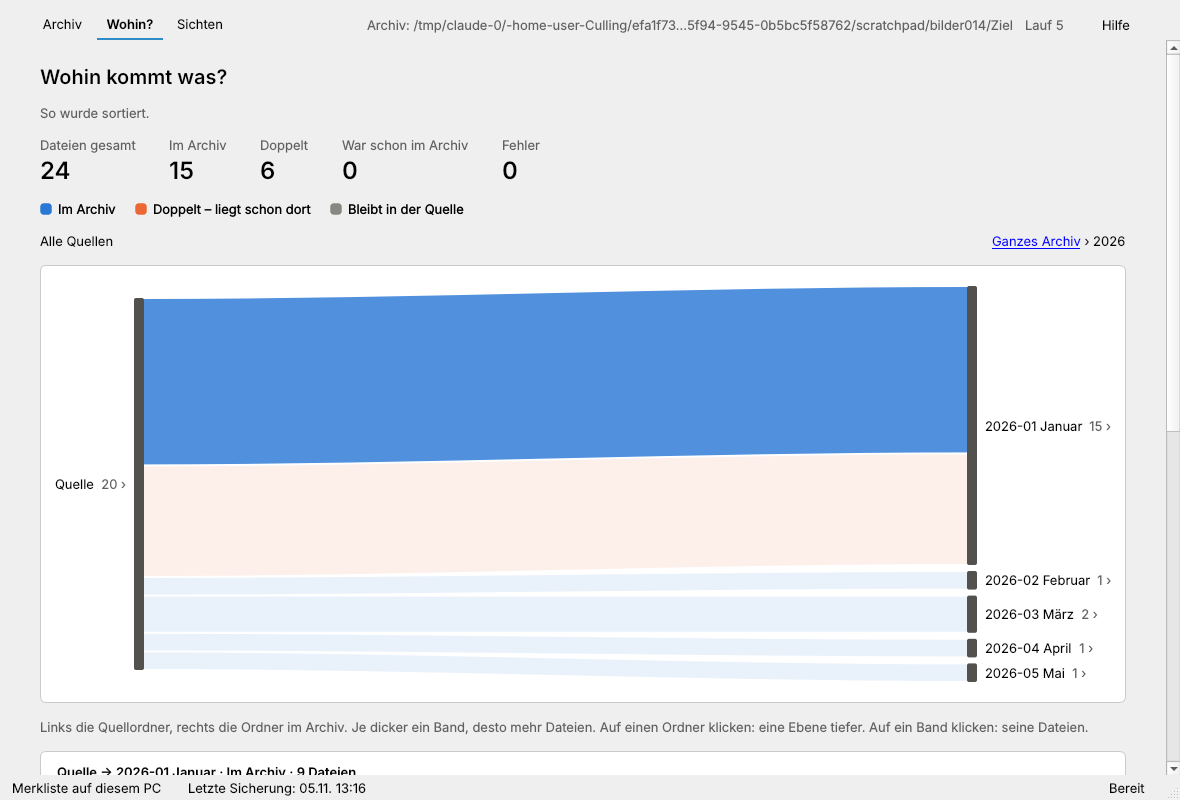
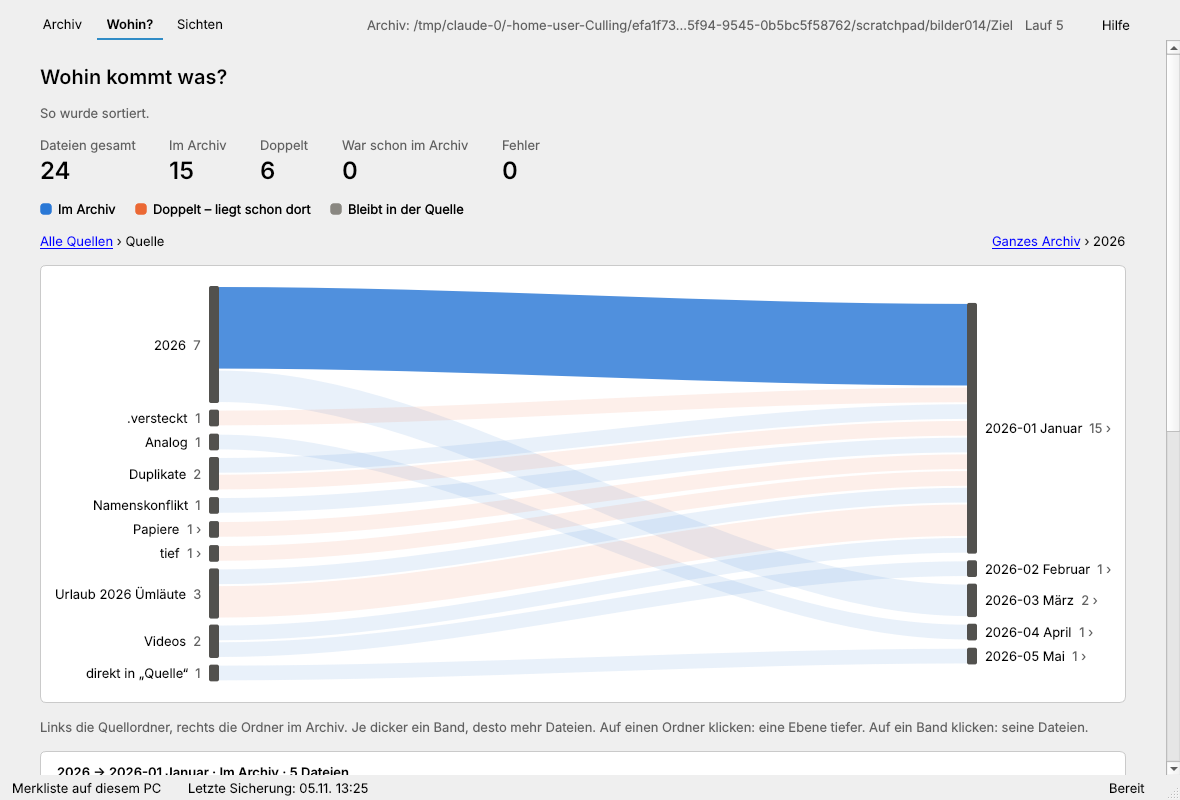
Wohin?: bei nur einer Quelle links gleich ihre Unterordner
Bei einer einzigen Quelle stand links nur ein Block. Jetzt beginnt die
Ansicht bei ihren Unterordnern (wohin.start_links); die Pfadleiste fuehrt
zu "Alle Quellen" zurueck. Bild 15-wohin neu.

Claude-Session: https://claude.ai/code/session_01SYJYoMXuRtdKeJRGUwXWqL

diff --git a/tests/test_wohinfenster.py b/tests/test_wohinfenster.py
@@ -113,8 +113,14 @@ def test_reiter_zeigt_den_plan_und_danach_das_ergebnis(app, tmp_path, quelle, zi
     assert w.kachel_rahmen["geplant"].isVisibleTo(w)
     assert w.tabelle.rowCount() == len(a.baender)
     assert sum(w.tabelle.item(z, 3).wert for z in range(w.tabelle.rowCount())) == gesamt
+    # Nur eine Quelle: links stehen gleich ihre Unterordner; die Pfadleiste
+    # nennt die Quelle und fuehrt zu „Alle Quellen“ zurueck.
+    assert w.links == (db.pfad_text(quelle),)
+    assert {"2026", "Urlaub 2026 Ümläute"} <= {k.name for k in a.links}
+    assert quelle.name in w.pfad_links.text() and meldungen.WOHIN_QUELLEN in w.pfad_links.text()
+    w.pfad_klick("links", 0)
+    assert w.links == () and w.ansicht.links[0].name == quelle.name
     # Die Quelle heisst nach ihrem Ordner; der ganze Pfad steht im Hinweis.
-    assert a.links[0].name == quelle.name
     assert str(quelle) in w.grafik.tipp_text(("links", 0))
 
     _schritte(quelle, ziel, "kopieren")
@@ -160,7 +166,9 @@ def test_hineinklicken_und_pfadleiste(app, tmp_path, quelle, ziel):
     assert w.ansicht.rechts and all(k.name.startswith("2026") for k in w.ansicht.rechts)
     assert not any(k.art in wohin.KAESTEN for k in w.ansicht.rechts)
     assert "2026" in w.pfad_rechts.text() and meldungen.WOHIN_ARCHIV in w.pfad_rechts.text()
-    # Links hinein: die Unterordner der Quelle.
+    # Links: zurueck zu allen Quellen, dann per Klick wieder hinein.
+    w.pfad_links.linkActivated.emit("0")
+    assert w.links == ()
     QTest.mouseClick(g, Qt.MouseButton.LeftButton, Qt.KeyboardModifier.NoModifier, _knoten_punkt(g, "links", 0))
     assert w.links == (db.pfad_text(quelle),)
     assert {"2026", "Urlaub 2026 Ümläute"} <= {k.name for k in w.ansicht.links}
@@ -203,7 +211,9 @@ def test_band_waehlen_zeigt_seine_dateien(app, tmp_path, quelle, ziel, monkeypat
     w.k_archiv.click()
     assert geoeffnet == [ziel.joinpath(*a.rechts[band.rechts].schluessel)] and geoeffnet[0].is_dir()
     w.k_quelle.click()
-    assert geoeffnet[-1] == quelle
+    links = a.links[band.links]               # der Quellordner des Bandes (seit „eine Quelle“ ein Unterordner)
+    erwartet = Path(db.text_pfad(links.schluessel[0]), *links.schluessel[1:]) if links.art == wohin.ORDNER else quelle
+    assert geoeffnet[-1] == erwartet and erwartet.is_dir() and erwartet.is_relative_to(quelle)
     # Auswahl aufheben.
     w.k_weg.click()
     assert w.band is None and g.gewaehlt is None and not w.band_karte.isVisibleTo(w)

diff --git a/tests/test_wohin.py b/tests/test_wohin.py
@@ -155,6 +155,30 @@ def test_gleichnamige_quellen_mit_ganzem_pfad(tmp_path):
         d.schliessen()
 
 
+def test_eine_quelle_beginnt_bei_ihren_unterordnern(tmp_path, beispiel):
+    """Bei nur einer Quelle stuende links ein einziger Block - aufschlussreicher
+    sind gleich ihre Unterordner. Bei mehreren Quellen oder ohne Unterordner
+    beginnt die Ansicht oben."""
+    d, ziel, karte, alt = beispiel
+    assert wohin.start_links(wohin.lesen(d, ziel)) == ()                 # zwei Quellen
+    ziel2 = tmp_path / "Archiv2"
+    d2 = db.Datenbank.oeffnen(tmp_path / "archiv2")
+    try:
+        q = tmp_path / "Eine"
+        _zeile(d2, q / "Handy" / "a.jpg", q, "kopiert", ziel2 / "2019" / "a.jpg")
+        _zeile(d2, q / "Kamera" / "b.jpg", q, "kopiert", ziel2 / "2020" / "b.jpg")
+        d2.verbindung.commit()
+        daten = wohin.lesen(d2, ziel2)
+        assert wohin.start_links(daten) == (db.pfad_text(q),)
+        assert [k.name for k in wohin.ansicht(daten, wohin.start_links(daten)).links] == ["Handy", "Kamera"]
+        d2.verbindung.execute("DELETE FROM dateien")
+        _zeile(d2, q / "c.jpg", q, "kopiert", ziel2 / "2019" / "c.jpg")   # nur direkt in der Quelle
+        d2.verbindung.commit()
+        assert wohin.start_links(wohin.lesen(d2, ziel2)) == ()
+    finally:
+        d2.schliessen()
+
+
 def test_hineinklicken_links_und_rechts(beispiel):
     d, ziel, karte, alt = beispiel
     daten = wohin.lesen(d, ziel)

diff --git a/src/fotosort/wohin.py b/src/fotosort/wohin.py
@@ -388,6 +388,16 @@ def ansicht(daten: Daten, links: tuple[str, ...] = (), rechts: tuple[str, ...] =
                    sum(k.n for k in l_knoten), sum(k.bytes for k in l_knoten), l_index, r_index)
 
 
+def start_links(daten: Daten) -> tuple[str, ...]:
+    """Womit die linke Seite beginnt: Bei nur einer Quelle mit Unterordnern
+    gleich mit deren Unterordnern (sonst stuende dort ein einziger Block),
+    sonst mit allen Quellen."""
+    wurzeln = {e.wurzel for e in daten.eintraege}
+    if len(wurzeln) == 1 and any(e.quelle for e in daten.eintraege):
+        return (next(iter(wurzeln)),)
+    return ()
+
+
 def _schluessel(kette: tuple, ziel: tuple | None, schicksal: str, links: tuple, rechts: tuple):
     """(linker, rechter) Schluessel einer Zeile in dieser Ansicht - oder None,
     wenn sie nicht hineingehoert."""

diff --git a/src/fotosort/oberflaeche/wohinfenster.py b/src/fotosort/oberflaeche/wohinfenster.py
@@ -653,8 +653,9 @@ class WohinSeite(QWidget):
             self._ohne_daten(meldungen.wohin_lesefehler(fehler))
             return
         self.laeuft.hide()
-        if self.daten is not None and daten.ziel != self.daten.ziel:
-            self.links, self.rechts = (), ()
+        if self.daten is None or daten.ziel != self.daten.ziel:
+            # Erstes Lesen dieses Archivs: bei nur einer Quelle gleich ihre Unterordner.
+            self.links, self.rechts = wohin.start_links(daten), ()
         self.daten = daten
         self._zeigen()
 
